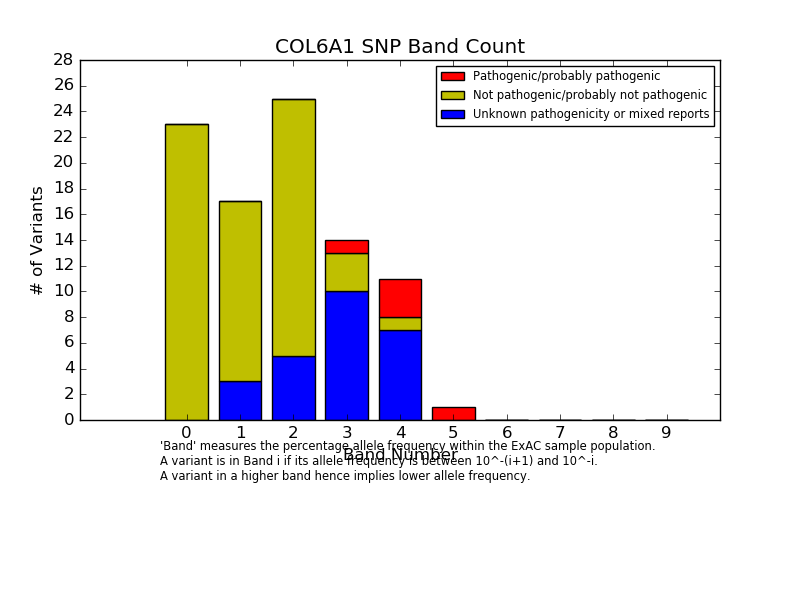
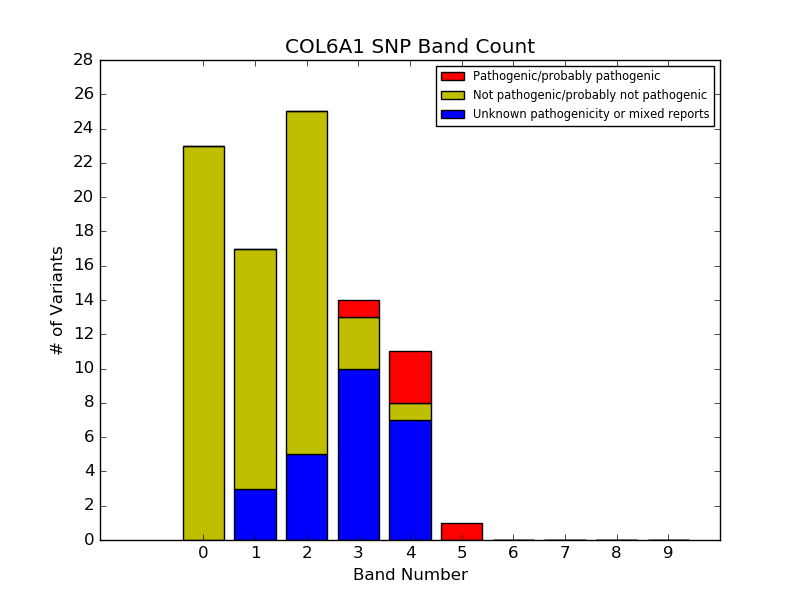
finished off chart making details

Changed region(s): [[0.0312, 0.09, 0.9062, 0.99], [0.3438, 0.06, 0.6875, 0.09], [0.0938, 0.78, 0.125, 0.81]]

diff --git a/leiden_overlay/processing/make_chart.py b/leiden_overlay/processing/make_chart.py
@@ -81,12 +81,13 @@ rect_unknown = ax.bar(x_axis, threshold_unknown, color='b', align='center')
 rect_no = ax.bar(x_axis, threshold_no, bottom=threshold_unknown, color='y', align='center')
 rect_yes = ax.bar(x_axis, threshold_yes, bottom=[threshold_no[i] + threshold_unknown[i] for i in range(0, 10)], color='r', align='center')
 
-plt.gca().set_position((.1, .3, .8, .6))
+#plt.gca().set_position((.1, .3, .8, .6))
 ax.set_ylabel("# of Variants")
 ax.set_xlabel("Band Number") # PUT IN A KEY
 ax.set_yticks(scipy.arange(0, max(y_axis)+5, 2))
 ax.set_xticks(np.arange(0, 10, 1))
 ax.set_title("%s SNP Band Count"%(input_gene))
+#ax.suplots_adjust(left=0.09, bottom=0.20)
 legend1 = plt.legend((rect_yes, rect_no, rect_unknown), ("Pathogenic/probably pathogenic", "Not pathogenic/probably not pathogenic", "Unknown pathogenicity or mixed reports"), fontsize='x-small', loc=1)
 
 #bandstr = "\n'Band' measures percentage allele frequency within the ExAC sample population.\nBand 0: 10^-1 to 1\n"
@@ -94,7 +95,10 @@ legend1 = plt.legend((rect_yes, rect_no, rect_unknown), ("Pathogenic/probably pa
 #    bandstr+="Band %d: 10^-%d to 10^-%d\n"%(i, i+1, i)
 
 #plt.figtext(.02, .02, bandstr, fontsize='x-small')
-plt.figtext(0.2, 0.2, "'Band' measures the percentage allele frequency within the ExAC sample population.\nA variant is in Band i if its allele frequency is between 10^-(i+1) and 10^-i.\nA variant in a higher band hence implies lower allele frequency.", fontsize="x-small")
+#plt.figtext(0.2, 0.2, "'Band' measures the percentage allele frequency within the ExAC sample population.\nA variant is in Band i if its allele frequency is between 10^-(i+1) and 10^-i.\nA variant in a higher band hence implies lower allele frequency.", fontsize="x-small")
 #plt.setp(ax.set_xticklabels(x_axis))
 
 fig.savefig("../results/" + input_gene + "/" + input_gene + "_chart.png")
+plt.subplots_adjust(bottom=0.20)
+plt.figtext(0.05, 0.02, "'Band' measures the percentage allele frequency within the ExAC sample population.\nA variant is in Band k if its allele frequency is between 10^-(k+1) and 10^(-k)\nA variant in a higher band hence implies lower allele frequency.")
+plt.show()

diff --git a/leiden_overlay/processing/categorise_types.py b/leiden_overlay/processing/categorise_types.py
@@ -1,0 +1,47 @@
+import sys
+input_gene = sys.argv[1]
+
+gene_csv = open("../dat/" + input_gene + "_sorted.txt")
+lines = [line.rstrip('\n').split('\t') for line in gene_csv]
+gene_csv.close()
+
+col_list = lines[0]
+type_index = col_list.index("type")
+freq_index = col_list.index("deduced_allele_frequency")
+del col_list[type_index]
+col_names = '\t'.join(col_list)
+del lines[0]
+
+
+snp_file = open("./../dat/" + input_gene + "_snp.txt", "w")
+snps_fixed = open("./../dat/" + input_gene + "_snp_fixed.txt", "w")
+
+del_file = open("./../dat/" + input_gene + "_del.txt", "w")
+dup_file = open("./../dat/" + input_gene + "_dup.txt", "w")
+
+snp_file.write(col_names + '\n')
+snps_fixed.write(col_names + '\n')
+del_file.write(col_names + '\n')
+dup_file.write(col_names + '\n')
+
+for line in lines:
+    if line[type_index] == "snp":
+        freq = line[freq_index]
+        del line[type_index]
+        snp_file.write('\t'.join(line) + '\n')
+        if not 'No' in freq:
+            snps_fixed.write('\t'.join(line) + '\n')
+    elif line[type_index] == "del":
+        del line[type_index]
+        del_file.write('\t'.join(line) + '\n')
+    elif line[type_index] == "dup":
+        del line[type_index]
+        dup_file.write('\t'.join(line) + '\n')
+    else:
+        print line[0] + " could not be categorised..."
+
+#PUT THE FILES IN A DICT INSTEAD
+snp_file.close()
+snps_fixed.close()
+del_file.close()
+dup_file.close()
